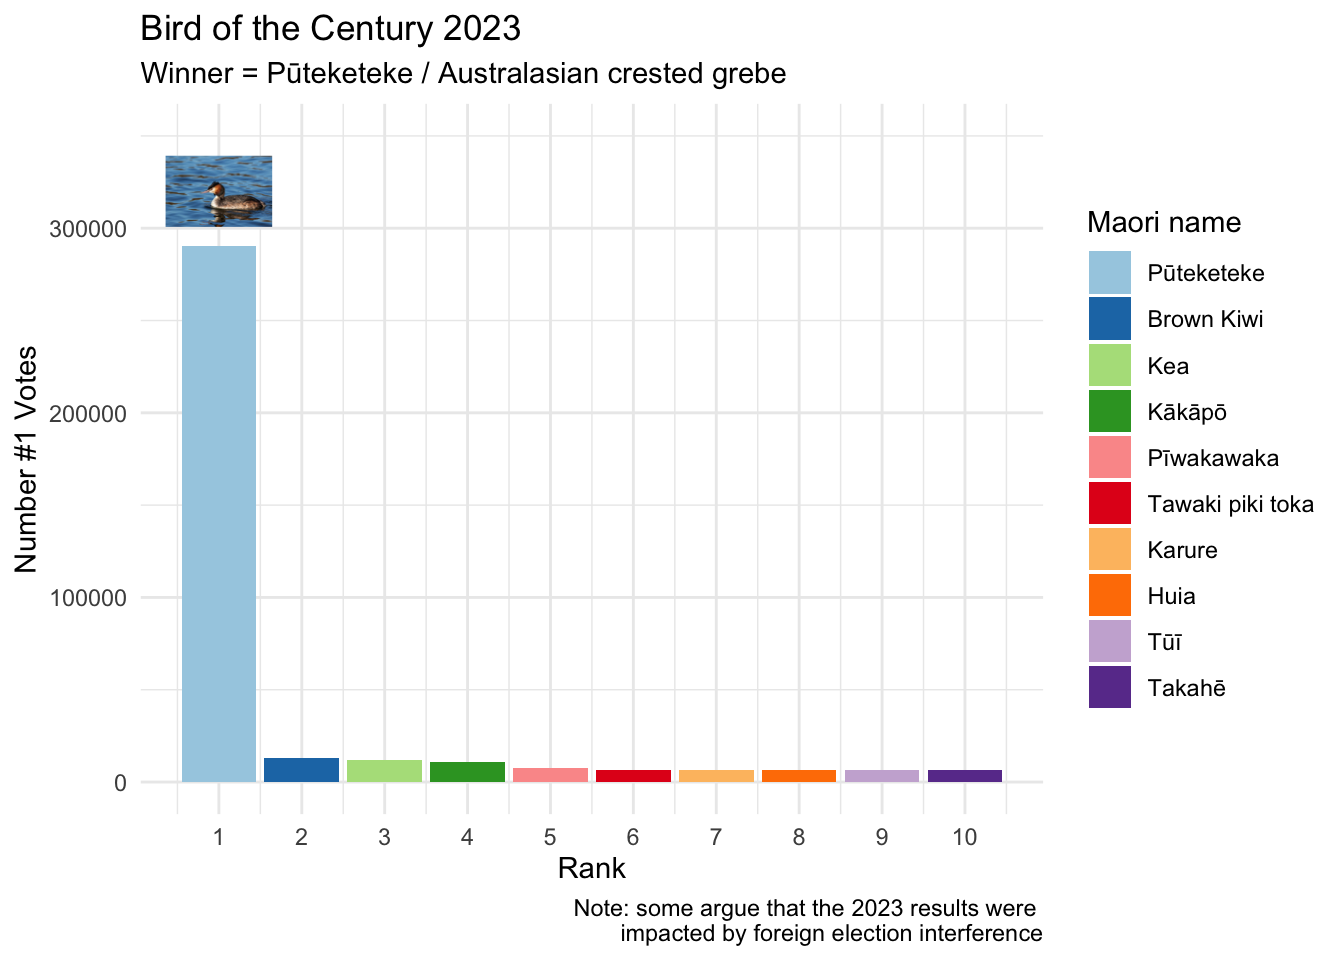
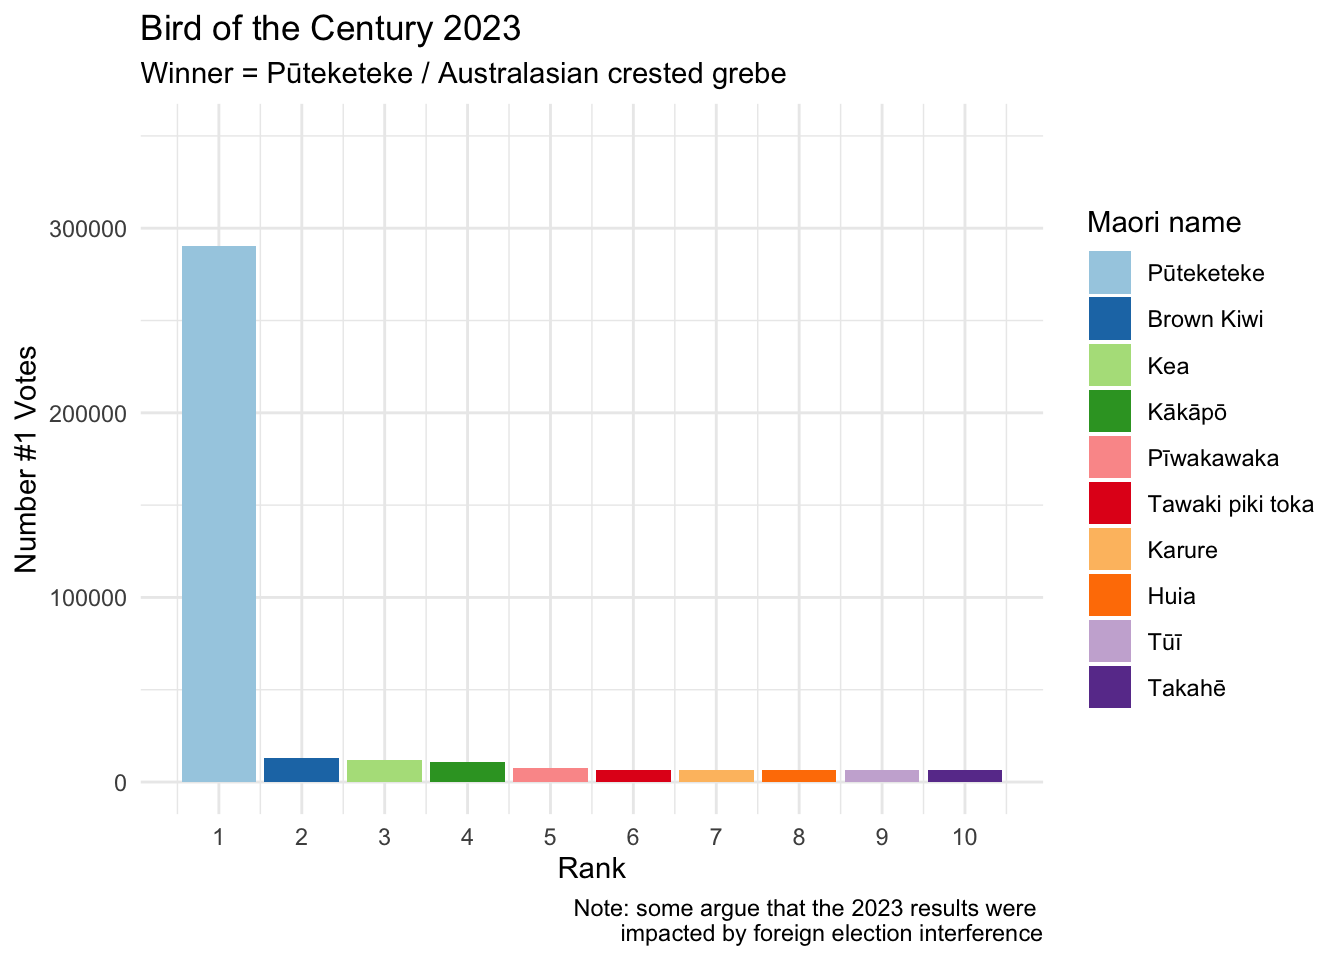
remove ggimages avoid magick problem?

Changed region(s): [[0.125, 0.1562, 0.2188, 0.25]]

diff --git a/_site/charts/2025-04-17_birds/index.html b/_site/charts/2025-04-17_birds/index.html
@@ -209,9 +209,7 @@ gtag('config', 'G-Y7WV5KV7Z0', { 'anonymize_ip': true});
 <span id="cb1-2"><a href="#cb1-2" aria-hidden="true" tabindex="-1"></a><span class="fu">library</span>(datapasta)</span>
 <span id="cb1-3"><a href="#cb1-3" aria-hidden="true" tabindex="-1"></a><span class="fu">library</span>(janitor)</span>
 <span id="cb1-4"><a href="#cb1-4" aria-hidden="true" tabindex="-1"></a><span class="fu">library</span>(ggbump)</span>
-<span id="cb1-5"><a href="#cb1-5" aria-hidden="true" tabindex="-1"></a><span class="fu">library</span>(ggeasy)</span>
-<span id="cb1-6"><a href="#cb1-6" aria-hidden="true" tabindex="-1"></a><span class="fu">library</span>(ggimage)</span>
-<span id="cb1-7"><a href="#cb1-7" aria-hidden="true" tabindex="-1"></a><span class="fu">library</span>(magick)</span></code><button title="Copy to Clipboard" class="code-copy-button"><i class="bi"></i></button></pre></div>
+<span id="cb1-5"><a href="#cb1-5" aria-hidden="true" tabindex="-1"></a><span class="fu">library</span>(ggeasy)</span></code><button title="Copy to Clipboard" class="code-copy-button"><i class="bi"></i></button></pre></div>
 </div>
 <p>It is Day 17 and the theme is birds. I am interested in the results of the <a href="https://www.forestandbird.org.nz/?gad_source=1&amp;gclid=Cj0KCQjwzYLABhD4ARIsALySuCQk3mQLVt-6iWSvTgWhWjh7mhqA8yOavKD3mOuB5AP4TbyKA6IAp0IaAtazEALw_wcB">Forest and Bird New Zealand</a> Bird of the Year competition over the past few years.</p>
 <p>On <a href="https://en.wikipedia.org/wiki/Bird_of_the_Year">Wikipedia</a> I found tables of the 2022-2024 results but I had to get the 2021 data from the <a href="https://www.forestandbird.org.nz/resources/holy-flying-mammals-batman-bird-year-winner-announced#:~:text=The%20top%20ten%20finishers%20and,10%20Rockhopper%20penguin%20(1603)">press release</a>.</p>
@@ -282,20 +280,14 @@ $ maori_name  &lt;chr&gt; "Pekapeka-tou-roa", "Kākāpō", "Titipounamu", "Kea",
 <span id="cb5-3"><a href="#cb5-3" aria-hidden="true" tabindex="-1"></a>  <span class="fu">mutate</span>(<span class="at">maori_name =</span> <span class="fu">fct_reorder</span>(maori_name, rank_number))</span>
 <span id="cb5-4"><a href="#cb5-4" aria-hidden="true" tabindex="-1"></a></span>
 <span id="cb5-5"><a href="#cb5-5" aria-hidden="true" tabindex="-1"></a></span>
-<span id="cb5-6"><a href="#cb5-6" aria-hidden="true" tabindex="-1"></a>p21 <span class="ot">&lt;-</span> d21 <span class="sc">%&gt;%</span></span>
+<span id="cb5-6"><a href="#cb5-6" aria-hidden="true" tabindex="-1"></a>d21 <span class="sc">%&gt;%</span></span>
 <span id="cb5-7"><a href="#cb5-7" aria-hidden="true" tabindex="-1"></a>  <span class="fu">ggplot</span>(<span class="fu">aes</span>(<span class="at">x =</span> rank_number, <span class="at">y =</span> votes, <span class="at">fill =</span> maori_name)) <span class="sc">+</span></span>
 <span id="cb5-8"><a href="#cb5-8" aria-hidden="true" tabindex="-1"></a>  <span class="fu">geom_col</span>() <span class="sc">+</span></span>
 <span id="cb5-9"><a href="#cb5-9" aria-hidden="true" tabindex="-1"></a>  <span class="fu">scale_x_continuous</span>(<span class="at">breaks =</span> <span class="fu">seq</span>(<span class="dv">1</span>,<span class="dv">10</span>, <span class="dv">1</span>)) <span class="sc">+</span></span>
 <span id="cb5-10"><a href="#cb5-10" aria-hidden="true" tabindex="-1"></a>  <span class="fu">scale_y_continuous</span>(<span class="at">limits =</span> <span class="fu">c</span>(<span class="dv">0</span>,<span class="dv">5000</span>)) <span class="sc">+</span></span>
 <span id="cb5-11"><a href="#cb5-11" aria-hidden="true" tabindex="-1"></a>  <span class="fu">labs</span>(<span class="at">y =</span> <span class="st">"Number #1 Votes"</span>, <span class="at">x =</span> <span class="st">"Rank"</span>, <span class="at">title =</span> <span class="st">"Bird of the Year 2021"</span>, <span class="at">subtitle=</span> <span class="st">"Winner = Pekapeka-tou-roa / Long-tailed bat"</span>,</span>
 <span id="cb5-12"><a href="#cb5-12" aria-hidden="true" tabindex="-1"></a>       <span class="at">caption =</span> <span class="st">"note: the BOTY competition uses a single transferable vote system; the bird </span><span class="sc">\n</span><span class="st">with the most Number #1 Votes does not necessarily win"</span>) <span class="sc">+</span></span>
-<span id="cb5-13"><a href="#cb5-13" aria-hidden="true" tabindex="-1"></a>  <span class="fu">theme_minimal</span>() </span>
-<span id="cb5-14"><a href="#cb5-14" aria-hidden="true" tabindex="-1"></a></span>
-<span id="cb5-15"><a href="#cb5-15" aria-hidden="true" tabindex="-1"></a></span>
-<span id="cb5-16"><a href="#cb5-16" aria-hidden="true" tabindex="-1"></a>p21 <span class="sc">+</span> </span>
-<span id="cb5-17"><a href="#cb5-17" aria-hidden="true" tabindex="-1"></a>  <span class="fu">geom_image</span>(</span>
-<span id="cb5-18"><a href="#cb5-18" aria-hidden="true" tabindex="-1"></a>    <span class="at">data =</span> <span class="fu">tibble</span>(<span class="at">rank_number =</span> <span class="dv">1</span>, <span class="at">votes =</span> <span class="dv">3800</span>, <span class="at">maori_name =</span> <span class="st">"Pekapeka-tou-roa"</span>),</span>
-<span id="cb5-19"><a href="#cb5-19" aria-hidden="true" tabindex="-1"></a>    <span class="fu">aes</span>(<span class="at">image =</span> here<span class="sc">::</span><span class="fu">here</span>(<span class="st">"charts"</span>, <span class="st">"2025-04-17_birds"</span>, <span class="st">"img"</span>, <span class="st">"bat.jpg"</span>)), <span class="at">size =</span> <span class="fl">0.15</span>)</span></code><button title="Copy to Clipboard" class="code-copy-button"><i class="bi"></i></button></pre></div>
+<span id="cb5-13"><a href="#cb5-13" aria-hidden="true" tabindex="-1"></a>  <span class="fu">theme_minimal</span>() </span></code><button title="Copy to Clipboard" class="code-copy-button"><i class="bi"></i></button></pre></div>
 </details>
 <div class="cell-output-display">
 <div>
@@ -316,7 +308,7 @@ $ maori_name  &lt;chr&gt; "Pekapeka-tou-roa", "Kākāpō", "Titipounamu", "Kea",
 <span id="cb6-2"><a href="#cb6-2" aria-hidden="true" tabindex="-1"></a>  <span class="fu">filter</span>(year <span class="sc">==</span> <span class="dv">2022</span>) <span class="sc">%&gt;%</span></span>
 <span id="cb6-3"><a href="#cb6-3" aria-hidden="true" tabindex="-1"></a>  <span class="fu">mutate</span>(<span class="at">maori_name =</span> <span class="fu">fct_reorder</span>(maori_name, rank_number))</span>
 <span id="cb6-4"><a href="#cb6-4" aria-hidden="true" tabindex="-1"></a></span>
-<span id="cb6-5"><a href="#cb6-5" aria-hidden="true" tabindex="-1"></a>p22 <span class="ot">&lt;-</span> d22 <span class="sc">%&gt;%</span></span>
+<span id="cb6-5"><a href="#cb6-5" aria-hidden="true" tabindex="-1"></a>d22 <span class="sc">%&gt;%</span></span>
 <span id="cb6-6"><a href="#cb6-6" aria-hidden="true" tabindex="-1"></a>  <span class="fu">ggplot</span>(<span class="fu">aes</span>(<span class="at">x =</span> rank_number, <span class="at">y =</span> votes, <span class="at">fill =</span> maori_name)) <span class="sc">+</span></span>
 <span id="cb6-7"><a href="#cb6-7" aria-hidden="true" tabindex="-1"></a>  <span class="fu">geom_col</span>() <span class="sc">+</span></span>
 <span id="cb6-8"><a href="#cb6-8" aria-hidden="true" tabindex="-1"></a>  <span class="fu">scale_x_continuous</span>(<span class="at">breaks =</span> <span class="fu">seq</span>(<span class="dv">1</span>,<span class="dv">10</span>, <span class="dv">1</span>)) <span class="sc">+</span></span>
@@ -324,13 +316,7 @@ $ maori_name  &lt;chr&gt; "Pekapeka-tou-roa", "Kākāpō", "Titipounamu", "Kea",
 <span id="cb6-10"><a href="#cb6-10" aria-hidden="true" tabindex="-1"></a>  <span class="fu">labs</span>(<span class="at">y =</span> <span class="st">"Number #1 Votes"</span>, <span class="at">x =</span> <span class="st">"Rank"</span>, <span class="at">title =</span> <span class="st">"Bird of the Year 2022"</span>, <span class="at">subtitle=</span> <span class="st">"Winner = Pīwauwau / Rock wren"</span>,</span>
 <span id="cb6-11"><a href="#cb6-11" aria-hidden="true" tabindex="-1"></a>       <span class="at">caption =</span> <span class="st">"note: the BOTY competition uses a single transferable vote system; the bird </span><span class="sc">\n</span><span class="st">with the most Number #1 Votes does not necessarily win"</span>) <span class="sc">+</span></span>
 <span id="cb6-12"><a href="#cb6-12" aria-hidden="true" tabindex="-1"></a>  <span class="fu">theme_minimal</span>() <span class="sc">+</span></span>
-<span id="cb6-13"><a href="#cb6-13" aria-hidden="true" tabindex="-1"></a>  <span class="fu">scale_fill_brewer</span>(<span class="at">palette =</span> <span class="st">"Paired"</span>, <span class="at">name =</span> <span class="st">"Maori name"</span>)</span>
-<span id="cb6-14"><a href="#cb6-14" aria-hidden="true" tabindex="-1"></a></span>
-<span id="cb6-15"><a href="#cb6-15" aria-hidden="true" tabindex="-1"></a></span>
-<span id="cb6-16"><a href="#cb6-16" aria-hidden="true" tabindex="-1"></a></span>
-<span id="cb6-17"><a href="#cb6-17" aria-hidden="true" tabindex="-1"></a>p22 <span class="sc">+</span>  <span class="fu">geom_image</span>(</span>
-<span id="cb6-18"><a href="#cb6-18" aria-hidden="true" tabindex="-1"></a>    <span class="at">data =</span> <span class="fu">tibble</span>(<span class="at">rank_number =</span> <span class="dv">1</span>, <span class="at">votes =</span> <span class="dv">3800</span>, <span class="at">maori_name =</span> <span class="st">"Pīwauwau"</span>),</span>
-<span id="cb6-19"><a href="#cb6-19" aria-hidden="true" tabindex="-1"></a>    <span class="fu">aes</span>(<span class="at">image =</span> here<span class="sc">::</span><span class="fu">here</span>(<span class="st">"charts"</span>, <span class="st">"2025-04-17_birds"</span>, <span class="st">"img"</span>, <span class="st">"NZ_rock_wren_on_rock.jpg"</span>)), <span class="at">size =</span> <span class="fl">0.15</span>)</span></code><button title="Copy to Clipboard" class="code-copy-button"><i class="bi"></i></button></pre></div>
+<span id="cb6-13"><a href="#cb6-13" aria-hidden="true" tabindex="-1"></a>  <span class="fu">scale_fill_brewer</span>(<span class="at">palette =</span> <span class="st">"Paired"</span>, <span class="at">name =</span> <span class="st">"Maori name"</span>)</span></code><button title="Copy to Clipboard" class="code-copy-button"><i class="bi"></i></button></pre></div>
 </details>
 <div class="cell-output-display">
 <div>
@@ -373,7 +359,7 @@ $ maori_name  &lt;chr&gt; "Pekapeka-tou-roa", "Kākāpō", "Titipounamu", "Kea",
 <span id="cb7-5"><a href="#cb7-5" aria-hidden="true" tabindex="-1"></a>  <span class="fu">mutate</span>(<span class="at">maori_name =</span> <span class="fu">fct_reorder</span>(maori_name, rank_number))</span>
 <span id="cb7-6"><a href="#cb7-6" aria-hidden="true" tabindex="-1"></a></span>
 <span id="cb7-7"><a href="#cb7-7" aria-hidden="true" tabindex="-1"></a></span>
-<span id="cb7-8"><a href="#cb7-8" aria-hidden="true" tabindex="-1"></a>p23 <span class="ot">&lt;-</span> d23 <span class="sc">%&gt;%</span></span>
+<span id="cb7-8"><a href="#cb7-8" aria-hidden="true" tabindex="-1"></a> d23 <span class="sc">%&gt;%</span></span>
 <span id="cb7-9"><a href="#cb7-9" aria-hidden="true" tabindex="-1"></a>  <span class="fu">ggplot</span>(<span class="fu">aes</span>(<span class="at">x =</span> rank_number, <span class="at">y =</span> votes, <span class="at">fill =</span> maori_name)) <span class="sc">+</span></span>
 <span id="cb7-10"><a href="#cb7-10" aria-hidden="true" tabindex="-1"></a>   <span class="fu">geom_col</span>() <span class="sc">+</span></span>
 <span id="cb7-11"><a href="#cb7-11" aria-hidden="true" tabindex="-1"></a>  <span class="fu">scale_x_continuous</span>(<span class="at">breaks =</span> <span class="fu">seq</span>(<span class="dv">1</span>,<span class="dv">10</span>, <span class="dv">1</span>)) <span class="sc">+</span></span>
@@ -381,12 +367,7 @@ $ maori_name  &lt;chr&gt; "Pekapeka-tou-roa", "Kākāpō", "Titipounamu", "Kea",
 <span id="cb7-13"><a href="#cb7-13" aria-hidden="true" tabindex="-1"></a>  <span class="fu">labs</span>(<span class="at">y =</span> <span class="st">"Number #1 Votes"</span>, <span class="at">x =</span> <span class="st">"Rank"</span>, <span class="at">title =</span> <span class="st">"Bird of the Century 2023"</span>, <span class="at">subtitle=</span> <span class="st">"Winner = Pūteketeke / Australasian crested grebe"</span>,</span>
 <span id="cb7-14"><a href="#cb7-14" aria-hidden="true" tabindex="-1"></a>       <span class="at">caption =</span> <span class="st">"Note: some argue that the 2023 results were </span><span class="sc">\n</span><span class="st">impacted by foreign election interference"</span>) <span class="sc">+</span></span>
 <span id="cb7-15"><a href="#cb7-15" aria-hidden="true" tabindex="-1"></a>  <span class="fu">theme_minimal</span>() <span class="sc">+</span></span>
-<span id="cb7-16"><a href="#cb7-16" aria-hidden="true" tabindex="-1"></a>  <span class="fu">scale_fill_brewer</span>(<span class="at">palette =</span> <span class="st">"Paired"</span>, <span class="at">name =</span> <span class="st">"Maori name"</span>)</span>
-<span id="cb7-17"><a href="#cb7-17" aria-hidden="true" tabindex="-1"></a></span>
-<span id="cb7-18"><a href="#cb7-18" aria-hidden="true" tabindex="-1"></a></span>
-<span id="cb7-19"><a href="#cb7-19" aria-hidden="true" tabindex="-1"></a>p23 <span class="sc">+</span> <span class="fu">geom_image</span>(</span>
-<span id="cb7-20"><a href="#cb7-20" aria-hidden="true" tabindex="-1"></a>    <span class="at">data =</span> <span class="fu">tibble</span>(<span class="at">rank_number =</span> <span class="dv">1</span>, <span class="at">votes =</span> <span class="dv">320000</span>, <span class="at">maori_name =</span> <span class="st">"Pūteketeke"</span>),</span>
-<span id="cb7-21"><a href="#cb7-21" aria-hidden="true" tabindex="-1"></a>    <span class="fu">aes</span>(<span class="at">image =</span> here<span class="sc">::</span><span class="fu">here</span>(<span class="st">"charts"</span>, <span class="st">"2025-04-17_birds"</span>, <span class="st">"img"</span>, <span class="st">"grebe.jpg"</span>)), <span class="at">size =</span> <span class="fl">0.15</span>)</span></code><button title="Copy to Clipboard" class="code-copy-button"><i class="bi"></i></button></pre></div>
+<span id="cb7-16"><a href="#cb7-16" aria-hidden="true" tabindex="-1"></a>  <span class="fu">scale_fill_brewer</span>(<span class="at">palette =</span> <span class="st">"Paired"</span>, <span class="at">name =</span> <span class="st">"Maori name"</span>)</span></code><button title="Copy to Clipboard" class="code-copy-button"><i class="bi"></i></button></pre></div>
 </details>
 <div class="cell-output-display">
 <div>
@@ -407,20 +388,14 @@ $ maori_name  &lt;chr&gt; "Pekapeka-tou-roa", "Kākāpō", "Titipounamu", "Kea",
 <span id="cb8-3"><a href="#cb8-3" aria-hidden="true" tabindex="-1"></a>  <span class="fu">mutate</span>(<span class="at">maori_name =</span> <span class="fu">fct_reorder</span>(maori_name, rank_number))</span>
 <span id="cb8-4"><a href="#cb8-4" aria-hidden="true" tabindex="-1"></a></span>
 <span id="cb8-5"><a href="#cb8-5" aria-hidden="true" tabindex="-1"></a>  </span>
-<span id="cb8-6"><a href="#cb8-6" aria-hidden="true" tabindex="-1"></a>  p24 <span class="ot">&lt;-</span> d24 <span class="sc">%&gt;%</span></span>
+<span id="cb8-6"><a href="#cb8-6" aria-hidden="true" tabindex="-1"></a> d24 <span class="sc">%&gt;%</span></span>
 <span id="cb8-7"><a href="#cb8-7" aria-hidden="true" tabindex="-1"></a>  <span class="fu">ggplot</span>(<span class="fu">aes</span>(<span class="at">x =</span> rank_number, <span class="at">y =</span> votes, <span class="at">fill =</span> maori_name)) <span class="sc">+</span></span>
 <span id="cb8-8"><a href="#cb8-8" aria-hidden="true" tabindex="-1"></a>   <span class="fu">geom_col</span>() <span class="sc">+</span></span>
 <span id="cb8-9"><a href="#cb8-9" aria-hidden="true" tabindex="-1"></a>  <span class="fu">scale_x_continuous</span>(<span class="at">breaks =</span> <span class="fu">seq</span>(<span class="dv">1</span>,<span class="dv">10</span>, <span class="dv">1</span>)) <span class="sc">+</span></span>
 <span id="cb8-10"><a href="#cb8-10" aria-hidden="true" tabindex="-1"></a>     <span class="fu">scale_y_continuous</span>(<span class="at">limits =</span> <span class="fu">c</span>(<span class="dv">0</span>,<span class="dv">9000</span>)) <span class="sc">+</span></span>
 <span id="cb8-11"><a href="#cb8-11" aria-hidden="true" tabindex="-1"></a>  <span class="fu">labs</span>(<span class="at">y =</span> <span class="st">"Number #1 Votes"</span>, <span class="at">x =</span> <span class="st">"Rank"</span>, <span class="at">title =</span> <span class="st">"Bird of the Year 2024"</span>, <span class="at">subtitle=</span> <span class="st">"Winner = Hoiho / Yellow-eyed Penguin"</span>) <span class="sc">+</span></span>
 <span id="cb8-12"><a href="#cb8-12" aria-hidden="true" tabindex="-1"></a>  <span class="fu">theme_minimal</span>() <span class="sc">+</span></span>
-<span id="cb8-13"><a href="#cb8-13" aria-hidden="true" tabindex="-1"></a>  <span class="fu">scale_fill_brewer</span>(<span class="at">palette =</span> <span class="st">"Paired"</span>, <span class="at">name =</span> <span class="st">"Maori name"</span>)</span>
-<span id="cb8-14"><a href="#cb8-14" aria-hidden="true" tabindex="-1"></a></span>
-<span id="cb8-15"><a href="#cb8-15" aria-hidden="true" tabindex="-1"></a></span>
-<span id="cb8-16"><a href="#cb8-16" aria-hidden="true" tabindex="-1"></a>p24 <span class="sc">+</span></span>
-<span id="cb8-17"><a href="#cb8-17" aria-hidden="true" tabindex="-1"></a>  <span class="fu">geom_image</span>(</span>
-<span id="cb8-18"><a href="#cb8-18" aria-hidden="true" tabindex="-1"></a>    <span class="at">data =</span> <span class="fu">tibble</span>(<span class="at">rank_number =</span> <span class="dv">1</span>, <span class="at">votes =</span> <span class="dv">8000</span>, <span class="at">maori_name =</span> <span class="st">"Hoiho"</span>),</span>
-<span id="cb8-19"><a href="#cb8-19" aria-hidden="true" tabindex="-1"></a>    <span class="fu">aes</span>(<span class="at">image =</span> here<span class="sc">::</span><span class="fu">here</span>(<span class="st">"charts"</span>, <span class="st">"2025-04-17_birds"</span>, <span class="st">"img"</span>, <span class="st">"Yellow-eyed_Penguin_MC.jpg"</span>)), <span class="at">size =</span> <span class="fl">0.15</span>)</span></code><button title="Copy to Clipboard" class="code-copy-button"><i class="bi"></i></button></pre></div>
+<span id="cb8-13"><a href="#cb8-13" aria-hidden="true" tabindex="-1"></a>  <span class="fu">scale_fill_brewer</span>(<span class="at">palette =</span> <span class="st">"Paired"</span>, <span class="at">name =</span> <span class="st">"Maori name"</span>)</span></code><button title="Copy to Clipboard" class="code-copy-button"><i class="bi"></i></button></pre></div>
 </details>
 <div class="cell-output-display">
 <div>

diff --git a/_site/charts.html b/_site/charts.html
@@ -515,7 +515,7 @@ Apr 16, 2025
 </div>
 </a>
 </div>
-<div class="g-col-1" data-index="12" data-listing-date-sort="1744804800000" data-listing-file-modified-sort="1744941040380" data-listing-date-modified-sort="NaN" data-listing-reading-time-sort="6" data-listing-word-count-sort="1168">
+<div class="g-col-1" data-index="12" data-listing-date-sort="1744804800000" data-listing-file-modified-sort="1744953695717" data-listing-date-modified-sort="NaN" data-listing-reading-time-sort="6" data-listing-word-count-sort="1040">
 <a href="./charts/2025-04-17_birds/index.html" class="quarto-grid-link">
 <div class="quarto-grid-item card h-100 card-left">
 <p class="card-img-top">
